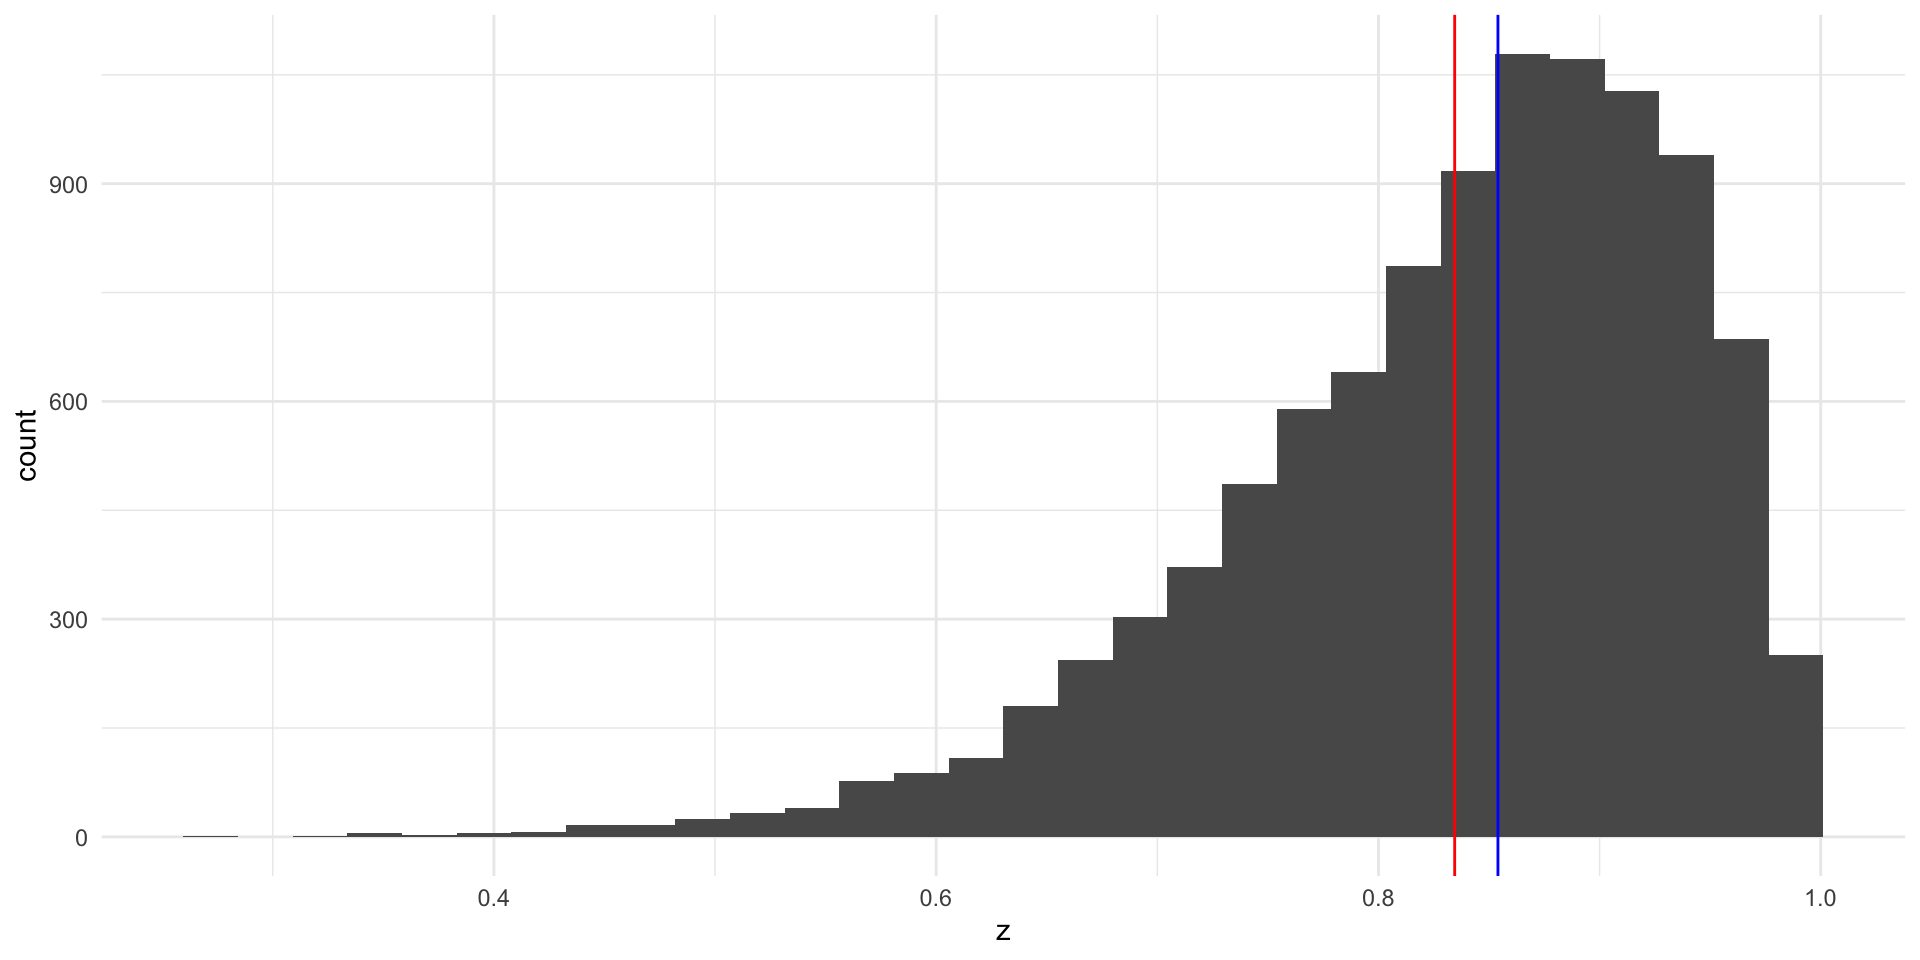
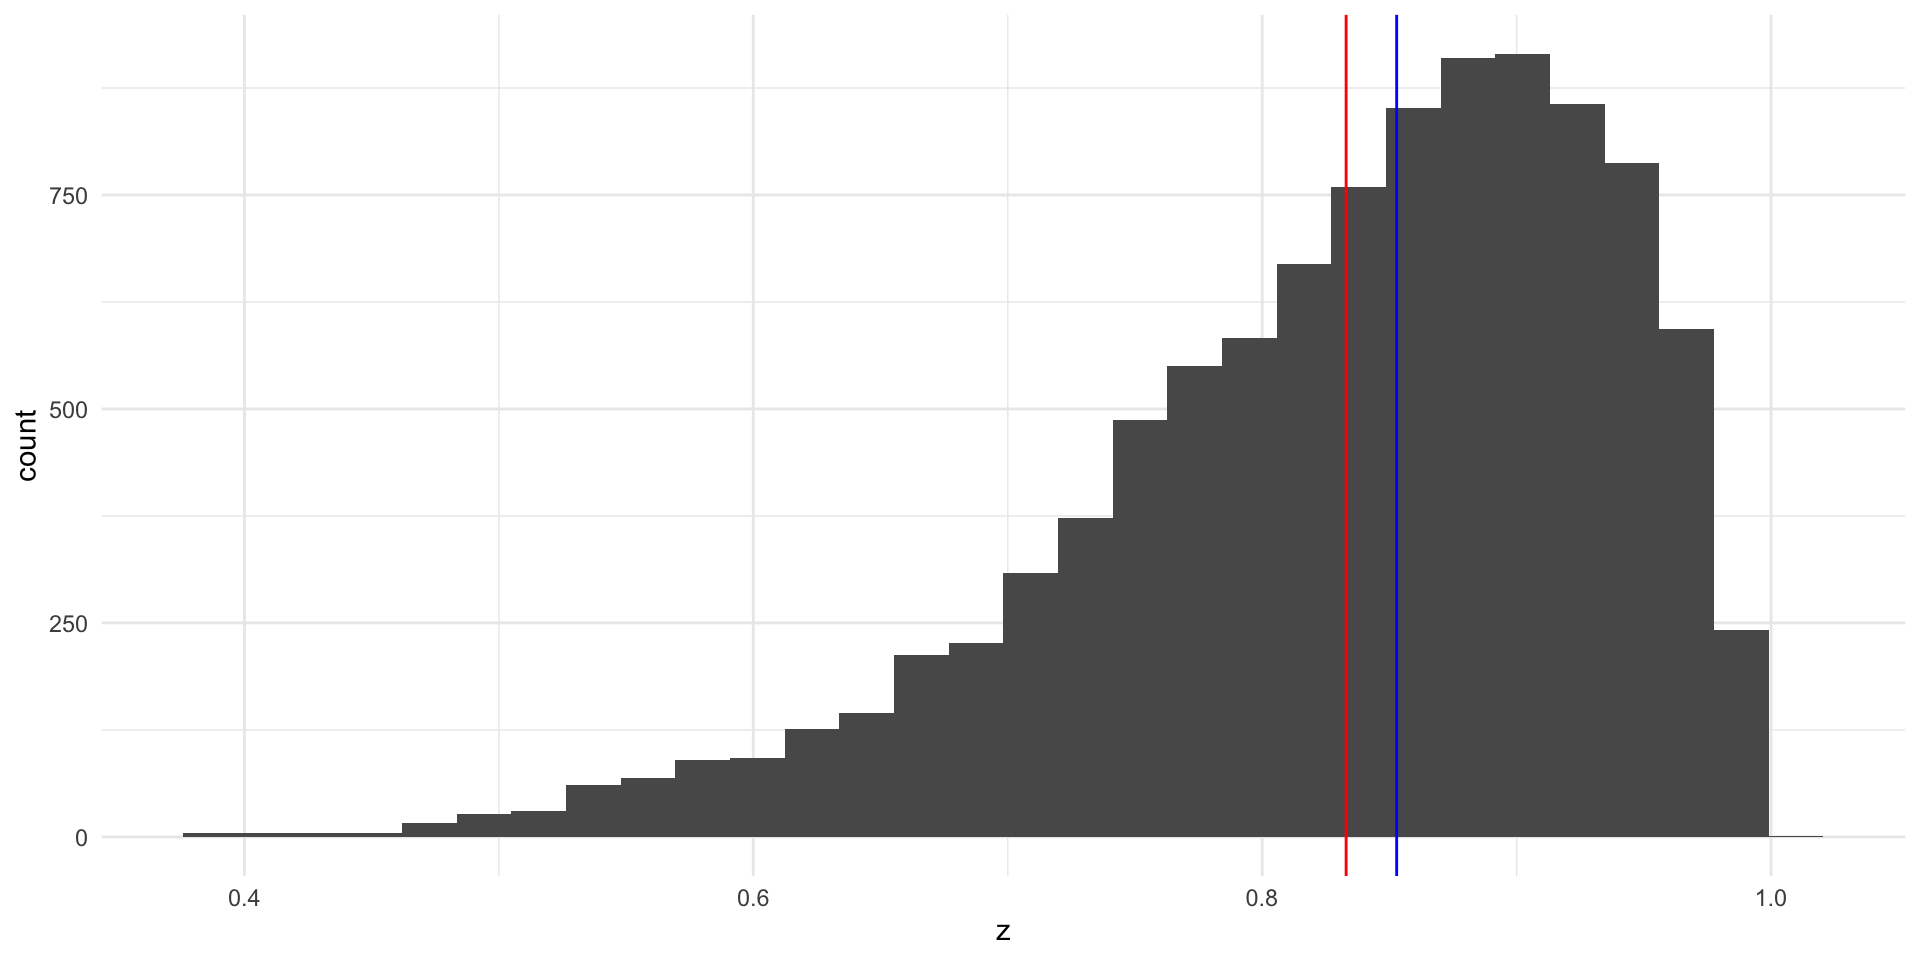
Update first section

Changed region(s): [[0.0312, 0.0312, 0.9688, 0.9062], [0.125, 0.8438, 0.1562, 0.875]]

diff --git a/_site/content/02-content.html b/_site/content/02-content.html
@@ -198,6 +198,7 @@ code span.wa { color: #60a0b0; font-weight: bold; font-style: italic; } /* Warni
   <li><a href="#class-slides" id="toc-class-slides" class="nav-link" data-scroll-target="#class-slides">Class slides</a></li>
   <li><a href="#session" id="toc-session" class="nav-link" data-scroll-target="#session">Session</a>
   <ul class="collapse">
+  <li><a href="#prerequisites" id="toc-prerequisites" class="nav-link" data-scroll-target="#prerequisites">Prerequisites</a></li>
   <li><a href="#describing-categorical-variables" id="toc-describing-categorical-variables" class="nav-link" data-scroll-target="#describing-categorical-variables">Describing categorical variables</a></li>
   <li><a href="#describing-continuous-variables" id="toc-describing-continuous-variables" class="nav-link" data-scroll-target="#describing-continuous-variables">Describing continuous variables</a></li>
   <li><a href="#understanding-distributions" id="toc-understanding-distributions" class="nav-link" data-scroll-target="#understanding-distributions">Understanding distributions</a></li>
@@ -236,36 +237,38 @@ code span.wa { color: #60a0b0; font-weight: bold; font-style: italic; } /* Warni
 </section>
 <section id="session" class="level2">
 <h2 class="anchored" data-anchor-id="session">Session</h2>
+<section id="prerequisites" class="level3">
+<h3 class="anchored" data-anchor-id="prerequisites">Prerequisites</h3>
 <div class="cell">
 <div class="sourceCode cell-code" id="cb1"><pre class="sourceCode r code-with-copy"><code class="sourceCode r"><span id="cb1-1"><a href="#cb1-1" aria-hidden="true" tabindex="-1"></a><span class="fu">library</span>(tidyverse)</span>
 <span id="cb1-2"><a href="#cb1-2" aria-hidden="true" tabindex="-1"></a><span class="fu">library</span>(janitor)</span>
 <span id="cb1-3"><a href="#cb1-3" aria-hidden="true" tabindex="-1"></a><span class="fu">library</span>(skimr)</span>
-<span id="cb1-4"><a href="#cb1-4" aria-hidden="true" tabindex="-1"></a><span class="fu">library</span>(wbstats)</span>
-<span id="cb1-5"><a href="#cb1-5" aria-hidden="true" tabindex="-1"></a><span class="fu">library</span>(patchwork)</span></code><button title="Copy to Clipboard" class="code-copy-button"><i class="bi"></i></button></pre></div>
+<span id="cb1-4"><a href="#cb1-4" aria-hidden="true" tabindex="-1"></a><span class="fu">library</span>(patchwork)</span></code><button title="Copy to Clipboard" class="code-copy-button"><i class="bi"></i></button></pre></div>
 </div>
+</section>
 <section id="describing-categorical-variables" class="level3">
 <h3 class="anchored" data-anchor-id="describing-categorical-variables">Describing categorical variables</h3>
 <p>Imagine that we have completed a survey of 10,000 individuals. We asked them their age and level of satisfaction with their job.</p>
 <div class="cell">
 
 </div>
-<p>We store their responses in a data frame called <code>survey_df</code>. It has 100 observations (one for each respondent) and three variables: a unique id (<code>id</code>); their age in years (<code>age</code>); and their level of satisfaction (<code>sat</code>), which can take one of four values: very unsatisfied, unsatisfied, satisfied, and very satisfied.</p>
+<p>We store their responses in a data frame called <code>survey_df</code>. It has 10,000 observations (one for each respondent) and three variables: a unique id (<code>id</code>); their age in years (<code>age</code>); and their level of satisfaction (<code>sat</code>), which can take one of four values: very unsatisfied, unsatisfied, satisfied, and very satisfied.</p>
 <div class="cell">
 <div class="sourceCode cell-code" id="cb2"><pre class="sourceCode r code-with-copy"><code class="sourceCode r"><span id="cb2-1"><a href="#cb2-1" aria-hidden="true" tabindex="-1"></a>survey_df</span></code><button title="Copy to Clipboard" class="code-copy-button"><i class="bi"></i></button></pre></div>
 <div class="cell-output cell-output-stdout">
 <pre><code># A tibble: 10,000 × 3
       id   age sat             
    &lt;int&gt; &lt;int&gt; &lt;chr&gt;           
- 1     1    53 Unsatisfied     
- 2     2    24 Very unsatisfied
- 3     3    65 Unsatisfied     
- 4     4    45 Satisfied       
- 5     5    60 Unsatisfied     
- 6     6    51 Very satisfied  
- 7     7    59 Very satisfied  
- 8     8    38 Very satisfied  
- 9     9    25 Unsatisfied     
-10    10    46 Very satisfied  
+ 1     1    20 Unsatisfied     
+ 2     2    27 Very unsatisfied
+ 3     3    42 Very satisfied  
+ 4     4    20 Very unsatisfied
+ 5     5    37 Unsatisfied     
+ 6     6    26 Satisfied       
+ 7     7    60 Very satisfied  
+ 8     8    63 Very unsatisfied
+ 9     9    42 Satisfied       
+10    10    40 Very unsatisfied
 # ℹ 9,990 more rows</code></pre>
 </div>
 </div>
@@ -276,10 +279,10 @@ code span.wa { color: #60a0b0; font-weight: bold; font-style: italic; } /* Warni
 <div class="sourceCode cell-code" id="cb4"><pre class="sourceCode r code-with-copy"><code class="sourceCode r"><span id="cb4-1"><a href="#cb4-1" aria-hidden="true" tabindex="-1"></a><span class="fu">tabyl</span>(survey_df, sat)</span></code><button title="Copy to Clipboard" class="code-copy-button"><i class="bi"></i></button></pre></div>
 <div class="cell-output cell-output-stdout">
 <pre><code>              sat    n percent
-        Satisfied 2543  0.2543
-      Unsatisfied 2476  0.2476
-   Very satisfied 2504  0.2504
- Very unsatisfied 2477  0.2477</code></pre>
+        Satisfied 2579  0.2579
+      Unsatisfied 2414  0.2414
+   Very satisfied 2508  0.2508
+ Very unsatisfied 2499  0.2499</code></pre>
 </div>
 </div>
 <p>Alternatively, we can use <code>skimr::skim()</code> to get a useful summary of this categorical variable.</p>
@@ -491,12 +494,12 @@ code span.wa { color: #60a0b0; font-weight: bold; font-style: italic; } /* Warni
 <td style="text-align: left;">data</td>
 <td style="text-align: right;">0</td>
 <td style="text-align: right;">1</td>
-<td style="text-align: right;">39.77</td>
-<td style="text-align: right;">14.58</td>
+<td style="text-align: right;">39.96</td>
+<td style="text-align: right;">14.79</td>
 <td style="text-align: right;">15</td>
 <td style="text-align: right;">27</td>
 <td style="text-align: right;">40</td>
-<td style="text-align: right;">52</td>
+<td style="text-align: right;">53</td>
 <td style="text-align: right;">65</td>
 <td style="text-align: left;">▇▇▇▇▇</td>
 </tr>
@@ -724,18 +727,18 @@ s^2 = \frac{\Sigma(x_i - \bar{x})^2}{n - 1}
 <span id="cb27-8"><a href="#cb27-8" aria-hidden="true" tabindex="-1"></a>wide_var_calc</span></code><button title="Copy to Clipboard" class="code-copy-button"><i class="bi"></i></button></pre></div>
 <div class="cell-output cell-output-stdout">
 <pre><code># A tibble: 1,000,000 × 4
-        z    mean   diff  diff_2
-    &lt;dbl&gt;   &lt;dbl&gt;  &lt;dbl&gt;   &lt;dbl&gt;
- 1  1.77  0.00160  1.77   3.13  
- 2  0.481 0.00160  0.480  0.230 
- 3  1.41  0.00160  1.41   1.98  
- 4  0.719 0.00160  0.717  0.514 
- 5 -2.35  0.00160 -2.35   5.51  
- 6 -1.29  0.00160 -1.29   1.66  
- 7 -3.71  0.00160 -3.71  13.8   
- 8  3.17  0.00160  3.17  10.1   
- 9 -1.86  0.00160 -1.86   3.46  
-10 -0.299 0.00160 -0.301  0.0903
+         z    mean    diff  diff_2
+     &lt;dbl&gt;   &lt;dbl&gt;   &lt;dbl&gt;   &lt;dbl&gt;
+ 1 -0.921  0.00268 -0.924  0.853  
+ 2  1.63   0.00268  1.63   2.65   
+ 3 -0.0416 0.00268 -0.0443 0.00196
+ 4  0.779  0.00268  0.777  0.603  
+ 5  0.494  0.00268  0.492  0.242  
+ 6 -0.738  0.00268 -0.740  0.548  
+ 7 -0.130  0.00268 -0.133  0.0176 
+ 8 -1.58   0.00268 -1.58   2.51   
+ 9  1.82   0.00268  1.82   3.30   
+10 -0.127  0.00268 -0.129  0.0167 
 # ℹ 999,990 more rows</code></pre>
 </div>
 </div>
@@ -745,7 +748,7 @@ s^2 = \frac{\Sigma(x_i - \bar{x})^2}{n - 1}
 <span id="cb29-2"><a href="#cb29-2" aria-hidden="true" tabindex="-1"></a></span>
 <span id="cb29-3"><a href="#cb29-3" aria-hidden="true" tabindex="-1"></a>wide_var</span></code><button title="Copy to Clipboard" class="code-copy-button"><i class="bi"></i></button></pre></div>
 <div class="cell-output cell-output-stdout">
-<pre><code>[1] 3.997739</code></pre>
+<pre><code>[1] 4.00025</code></pre>
 </div>
 </div>
 <p>We can compare this to the variance for our narrower distribution.</p>
@@ -761,7 +764,7 @@ s^2 = \frac{\Sigma(x_i - \bar{x})^2}{n - 1}
 <span id="cb31-9"><a href="#cb31-9" aria-hidden="true" tabindex="-1"></a></span>
 <span id="cb31-10"><a href="#cb31-10" aria-hidden="true" tabindex="-1"></a>narrow_var</span></code><button title="Copy to Clipboard" class="code-copy-button"><i class="bi"></i></button></pre></div>
 <div class="cell-output cell-output-stdout">
-<pre><code>[1] 1.001742</code></pre>
+<pre><code>[1] 1.000964</code></pre>
 </div>
 </div>
 <p>It is, in fact, smaller!</p>
@@ -769,15 +772,15 @@ s^2 = \frac{\Sigma(x_i - \bar{x})^2}{n - 1}
 <div class="cell">
 <div class="sourceCode cell-code" id="cb33"><pre class="sourceCode r code-with-copy"><code class="sourceCode r"><span id="cb33-1"><a href="#cb33-1" aria-hidden="true" tabindex="-1"></a><span class="fu">var</span>(wide_dist)</span></code><button title="Copy to Clipboard" class="code-copy-button"><i class="bi"></i></button></pre></div>
 <div class="cell-output cell-output-stdout">
-<pre><code>         z
-z 3.997739</code></pre>
+<pre><code>        z
+z 4.00025</code></pre>
 </div>
 </div>
 <div class="cell">
 <div class="sourceCode cell-code" id="cb35"><pre class="sourceCode r code-with-copy"><code class="sourceCode r"><span id="cb35-1"><a href="#cb35-1" aria-hidden="true" tabindex="-1"></a><span class="fu">var</span>(narrow_dist)</span></code><button title="Copy to Clipboard" class="code-copy-button"><i class="bi"></i></button></pre></div>
 <div class="cell-output cell-output-stdout">
 <pre><code>         z
-z 1.001742</code></pre>
+z 1.000964</code></pre>
 </div>
 </div>
 </section>
@@ -787,13 +790,13 @@ z 1.001742</code></pre>
 <div class="cell">
 <div class="sourceCode cell-code" id="cb37"><pre class="sourceCode r code-with-copy"><code class="sourceCode r"><span id="cb37-1"><a href="#cb37-1" aria-hidden="true" tabindex="-1"></a><span class="fu">sqrt</span>(wide_var)</span></code><button title="Copy to Clipboard" class="code-copy-button"><i class="bi"></i></button></pre></div>
 <div class="cell-output cell-output-stdout">
-<pre><code>[1] 1.999435</code></pre>
+<pre><code>[1] 2.000063</code></pre>
 </div>
 </div>
 <div class="cell">
 <div class="sourceCode cell-code" id="cb39"><pre class="sourceCode r code-with-copy"><code class="sourceCode r"><span id="cb39-1"><a href="#cb39-1" aria-hidden="true" tabindex="-1"></a><span class="fu">sqrt</span>(narrow_var)</span></code><button title="Copy to Clipboard" class="code-copy-button"><i class="bi"></i></button></pre></div>
 <div class="cell-output cell-output-stdout">
-<pre><code>[1] 1.000871</code></pre>
+<pre><code>[1] 1.000482</code></pre>
 </div>
 </div>
 <p>If you look back to our graphs, you will see that I set the standard deviations explicitly when I generated the data. <code>rnorm()</code> takes an <code>sd</code> argument. This is great because we can confirm that the standard deviations for the wide and narrow distributions are 2 and 1 respectively (with a little bit of noise).</p>
